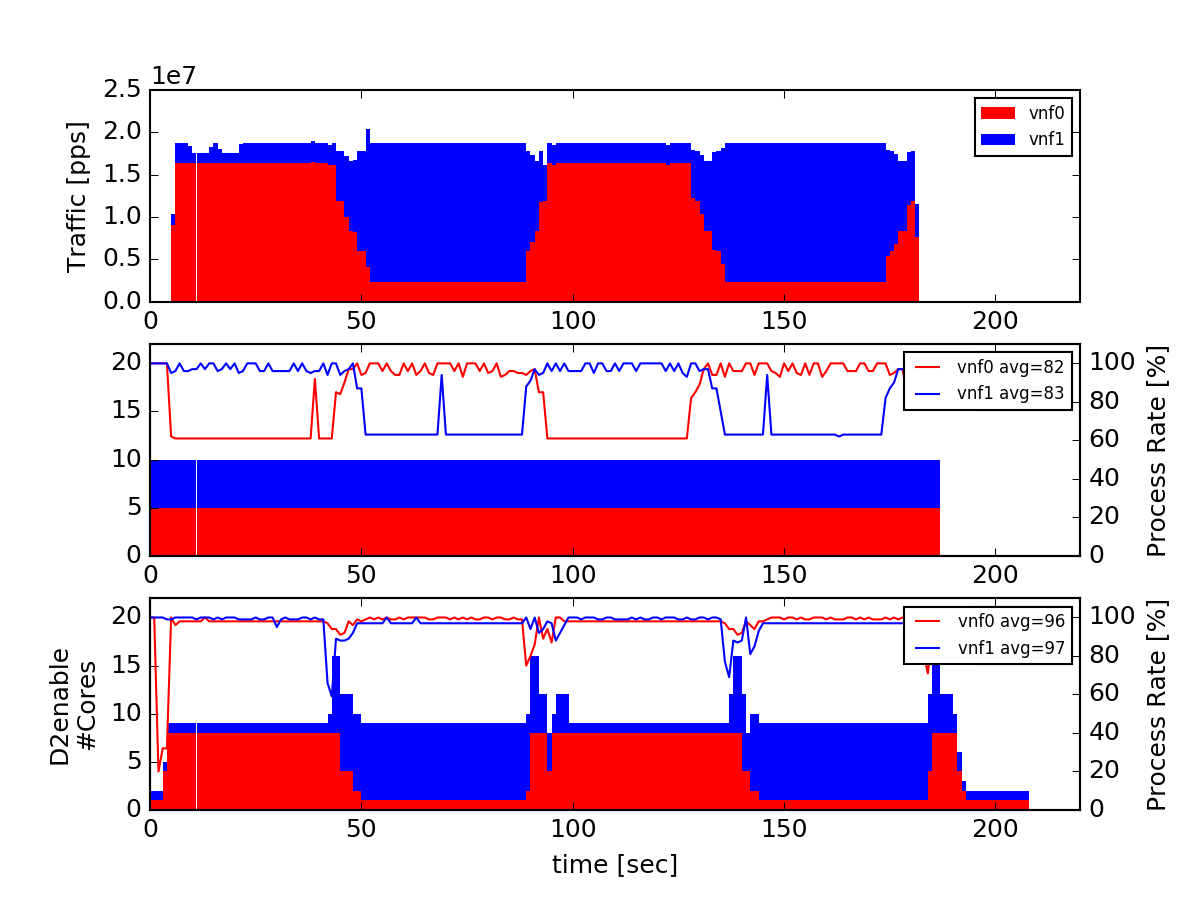
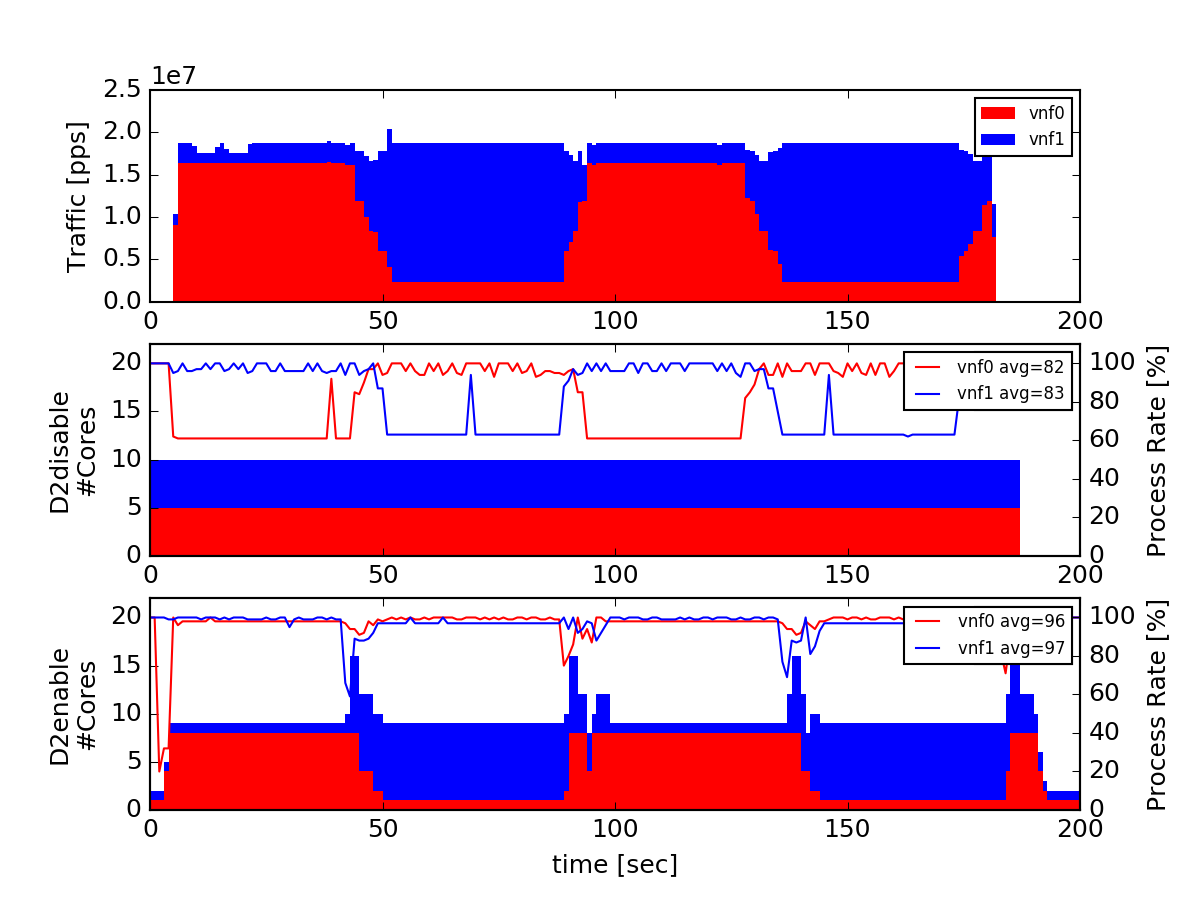
2018.02.03-17:43

diff --git a/figs/d100report/main.py b/figs/d100report/main.py
@@ -45,10 +45,7 @@ def main():
     en_vnf1core = en_data[:,7]
 
     xbegin = 0
-    xend   = 170  # 1times
-    xend   = 1100 # 8times
-    xend   = 600  # 4times
-    xend   = 220  # kukei
+    xend   = 200
     bar_width = 1.0
     vnf0_color = "red"
     vnf1_color = "blue"
@@ -72,7 +69,7 @@ def main():
             label='vnf1')
     ax1[0].legend(loc=1, fontsize=8)
 
-    ax1[2].set_ylabel('D2disable\n#Cores')
+    ax1[1].set_ylabel('D2disable\n#Cores')
     ax1[1].set_xlim([xbegin, xend])
     ax1[1].set_ylim([0, 22])
     ax1[1].bar(di_idx, di_vnf0core,
